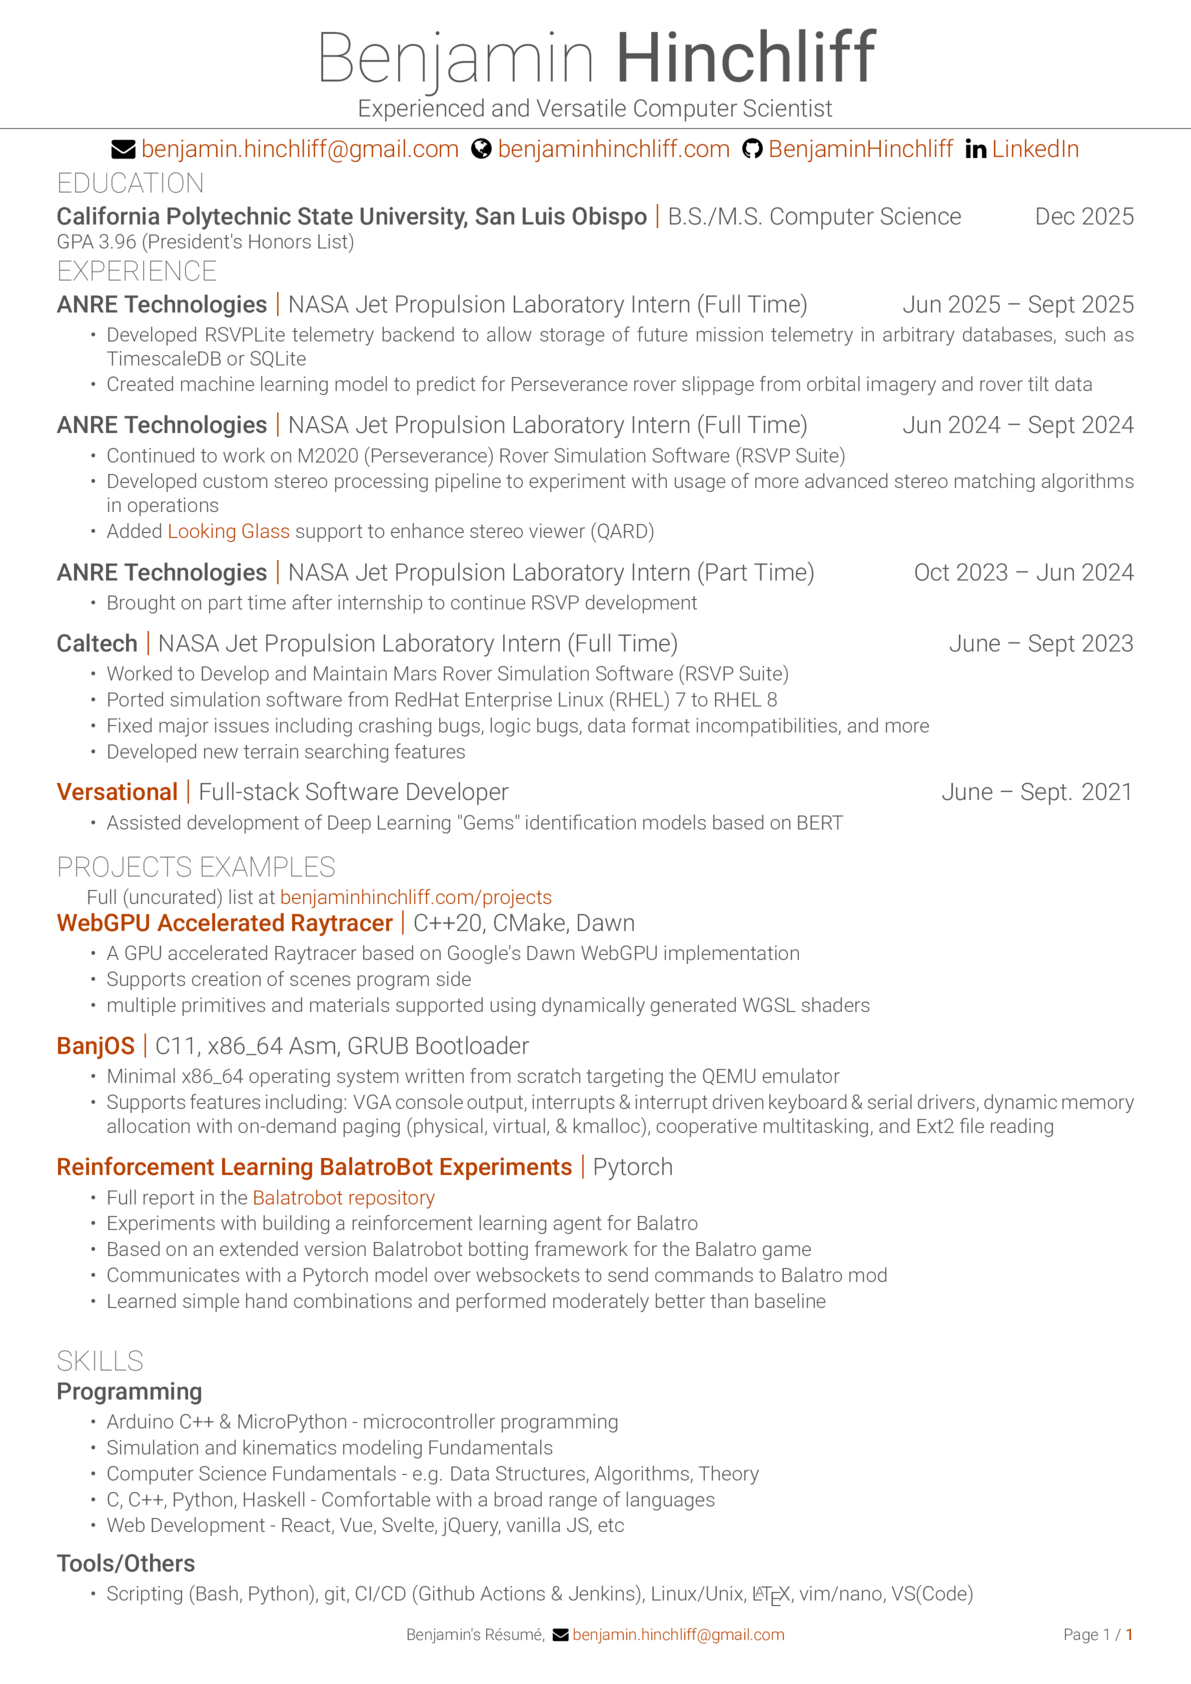
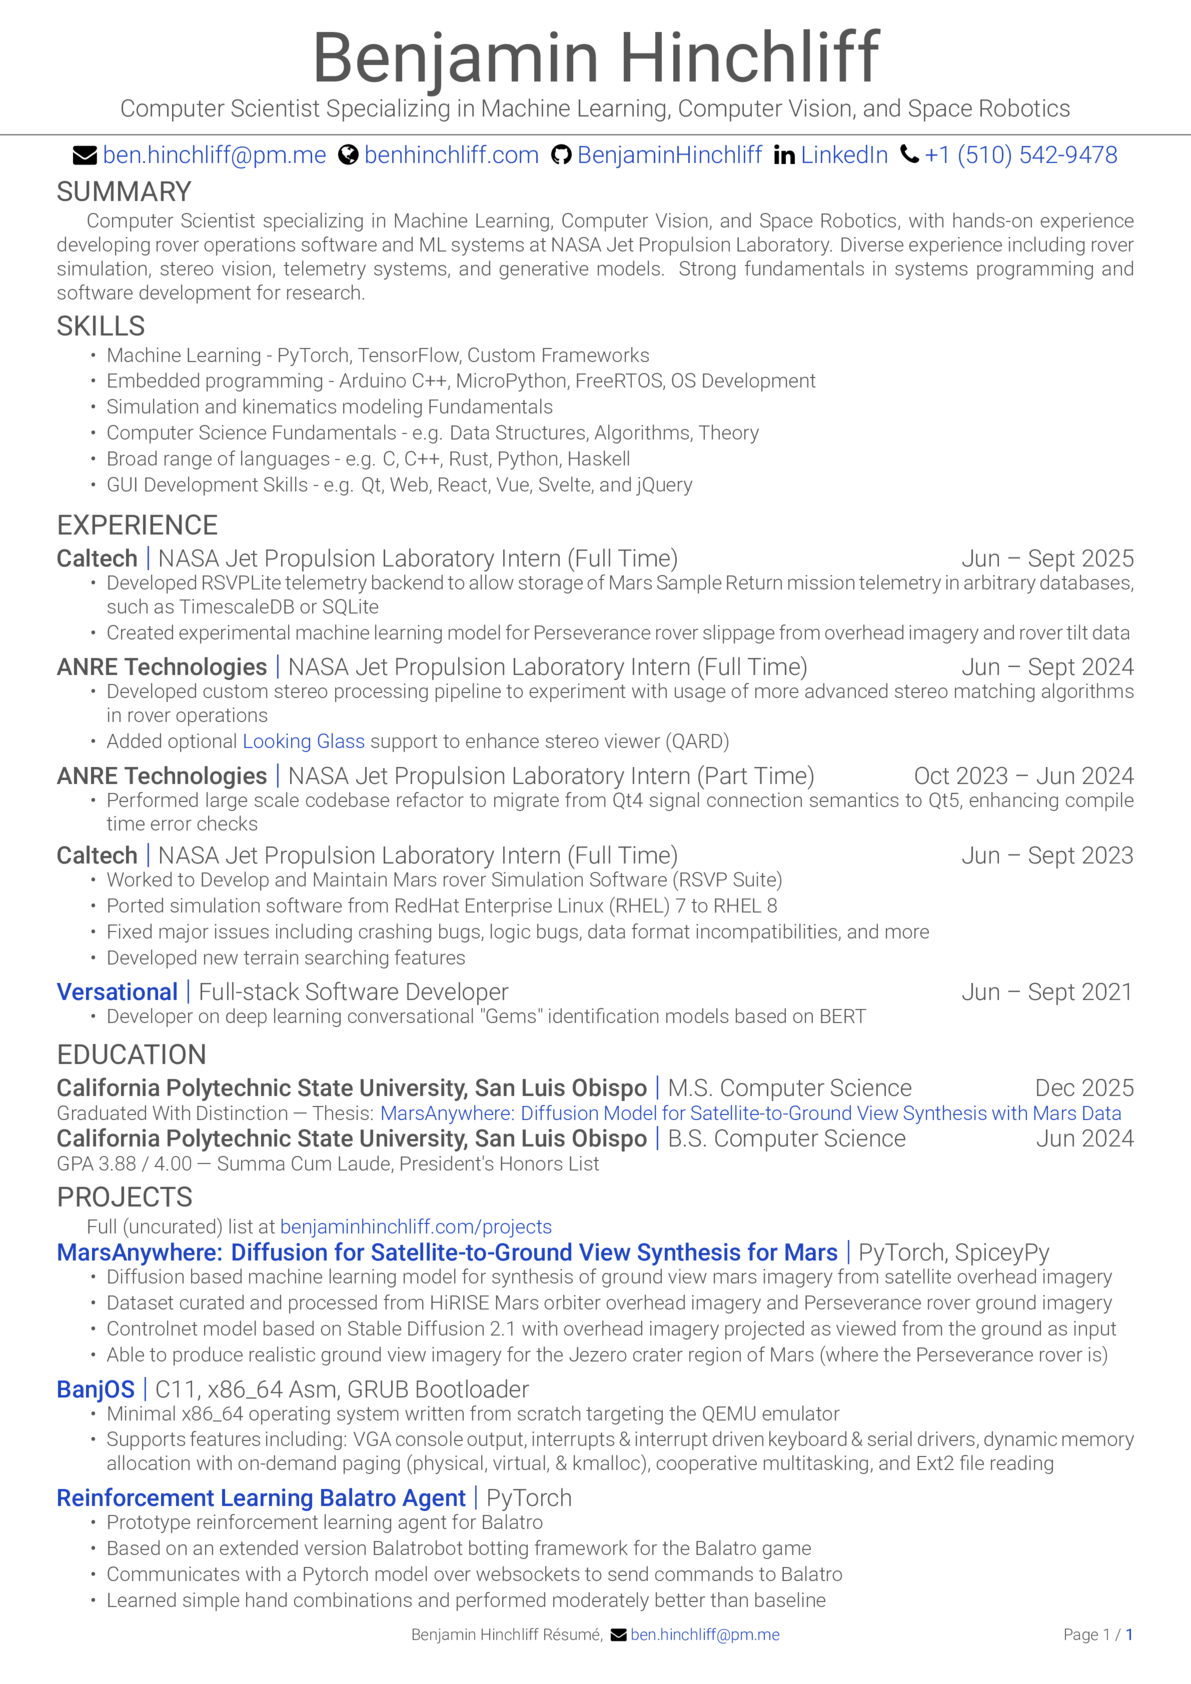
add with distinction to resume

diff --git a/resume.tex b/resume.tex
@@ -81,7 +81,7 @@ fundamentals in systems programming and software development for research.
 
 \section{Education}
 \combosection{California Polytechnic State University, San Luis Obispo}{M.S. Computer Science}{Dec 2025}{
-    Thesis: \href{https://digitalcommons.calpoly.edu/theses/3201}{MarsAnywhere: Dataset and Cross-view Diffusion Model for Satellite-to-Ground View Synthesis with Mars Data}
+    Graduated With Distinction \textemdash{} Thesis: \href{https://digitalcommons.calpoly.edu/theses/3201}{MarsAnywhere: Diffusion Model for Satellite-to-Ground View Synthesis with Mars Data}
 }
 \combosection{California Polytechnic State University, San Luis Obispo}{B.S. Computer Science}{Jun 2024}{
     GPA 3.88 / 4.00 \textemdash{} Summa Cum Laude, President's Honors List
